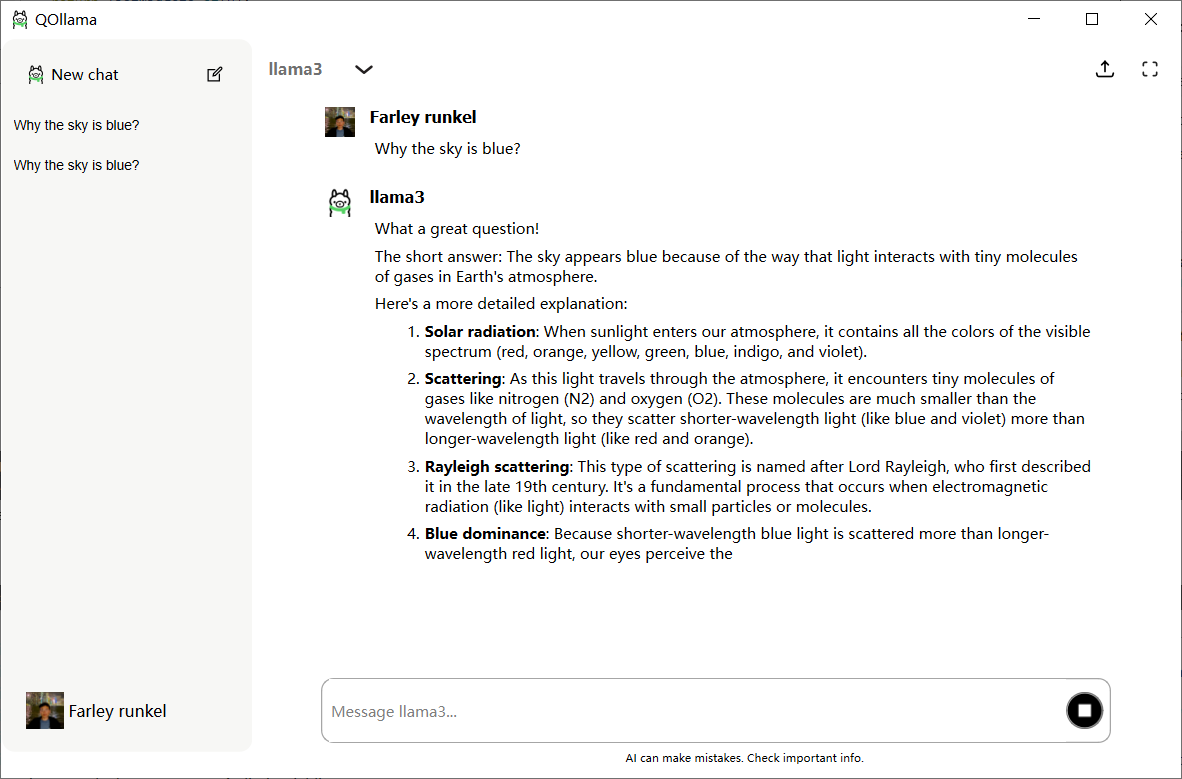
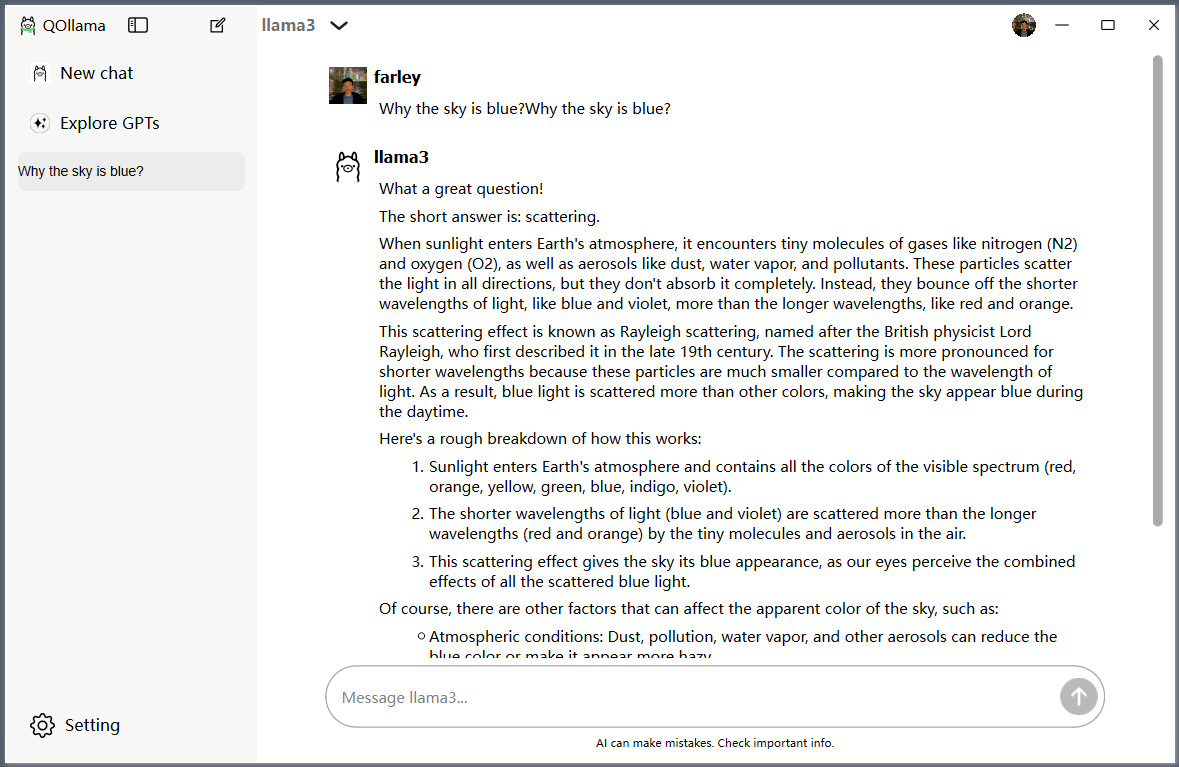
big update

Changed region(s): [[0.0, 0.0, 1.0, 1.0], [0.1527, 0.09, 0.1832, 0.1199]]

diff --git a/src/mainwindow.cpp b/src/mainwindow.cpp
@@ -46,6 +46,9 @@ MainWindow::MainWindow(QWidget *parent)
     ui->stackedWidget->addWidget(marketStackWidget);
     promoteToMacButtons() ;
 
+    connect(ui->stack, &QStackedWidget::show, ui->comboBox, &QComboBox::show);
+    connect(ui->stack, &QStackedWidget::hide, ui->comboBox, &QComboBox::hide);
+
     connect(ui->exploreButton, &QPushButton::clicked, market, &IMarketPage::show);
 
     connect(welcome, &IWelcomePage::send, [&](){ui->stackedWidget->setCurrentIndex(0);});
@@ -53,6 +56,7 @@ MainWindow::MainWindow(QWidget *parent)
     connect(ui->newChatButton, &QPushButton::pressed, this, &MainWindow::addNewChat);
     connect(ui->exploreButton, &QPushButton::pressed, [&](){ui->stackedWidget->setCurrentIndex(2);});
     connect(ui->expandButton, &QPushButton::pressed, this, &MainWindow::expandSideWidget);
+    connect(ui->newChatBtn, &QPushButton::pressed,  this, &MainWindow::addNewChat);
 
     connect(chatbot, &IChatBot::replyReceived, this, &MainWindow::appendWordToActiveChat);
     connect(chatbot, &IChatBot::finished, this,  &MainWindow::on_chatbot_finish);
@@ -234,7 +238,7 @@ void MainWindow::addMessage(QString text )
         hisItem = item;
     }
 
-    chatListView->addMessage(ui->settingButton->text(), ui->settingButton->icon().pixmap(30), text);
+    chatListView->addMessage("farley", QIcon("://icon/farley.jpg").pixmap(30), text);
     chatListView->addMessage(ui->comboBox->currentText(), ui->newChatButton->icon().pixmap(30), "");
     chatListView->scrollToBottom();
 

diff --git a/src/ichatwidget.cpp b/src/ichatwidget.cpp
@@ -37,7 +37,7 @@ IMessageWidget::IMessageWidget(const QString &userName, const QPixmap &avatar, c
     , userLabel(new QLabel(userName, this))
     , messageBrowser(new IAutoResizeTextBrowser(this))
     , spinner(nullptr)
-    , messageCache(message)
+    , messageCache()
 {
     setupUI();
     setPixmap(avatar);

diff --git a/src/ioverlaybutton.h b/src/ioverlaybutton.h
@@ -18,6 +18,7 @@ public:
 
         addSubButton(QIcon("://icon/create-new.svg"));
         getSubButton(1)->setToolTip("New chat");
+        getSubButton(1)->hide();
     }
 
 public:

diff --git a/README.md b/README.md
@@ -14,7 +14,7 @@ QOllama is a Qt-based client for [ollama](https://github.com/ollama/ollama). The
 
 ## Screenshots
 
-![image](./resources/images/qollama.png)
+![image](./resources/images/talk.png)
 
 ## Installation
 
